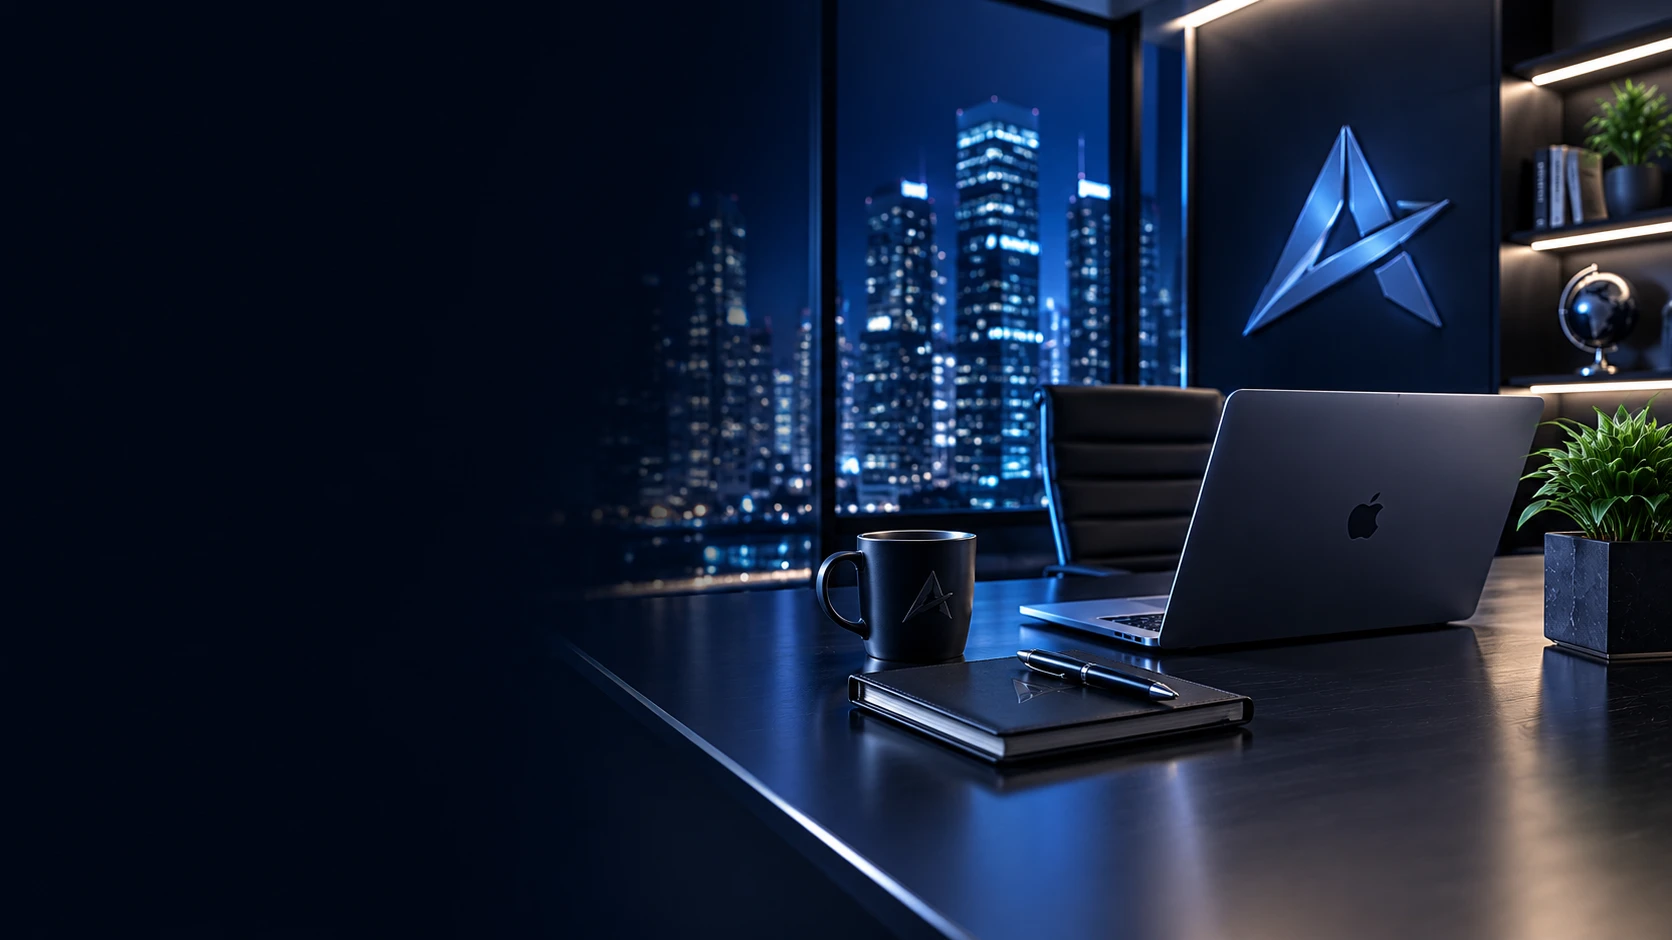
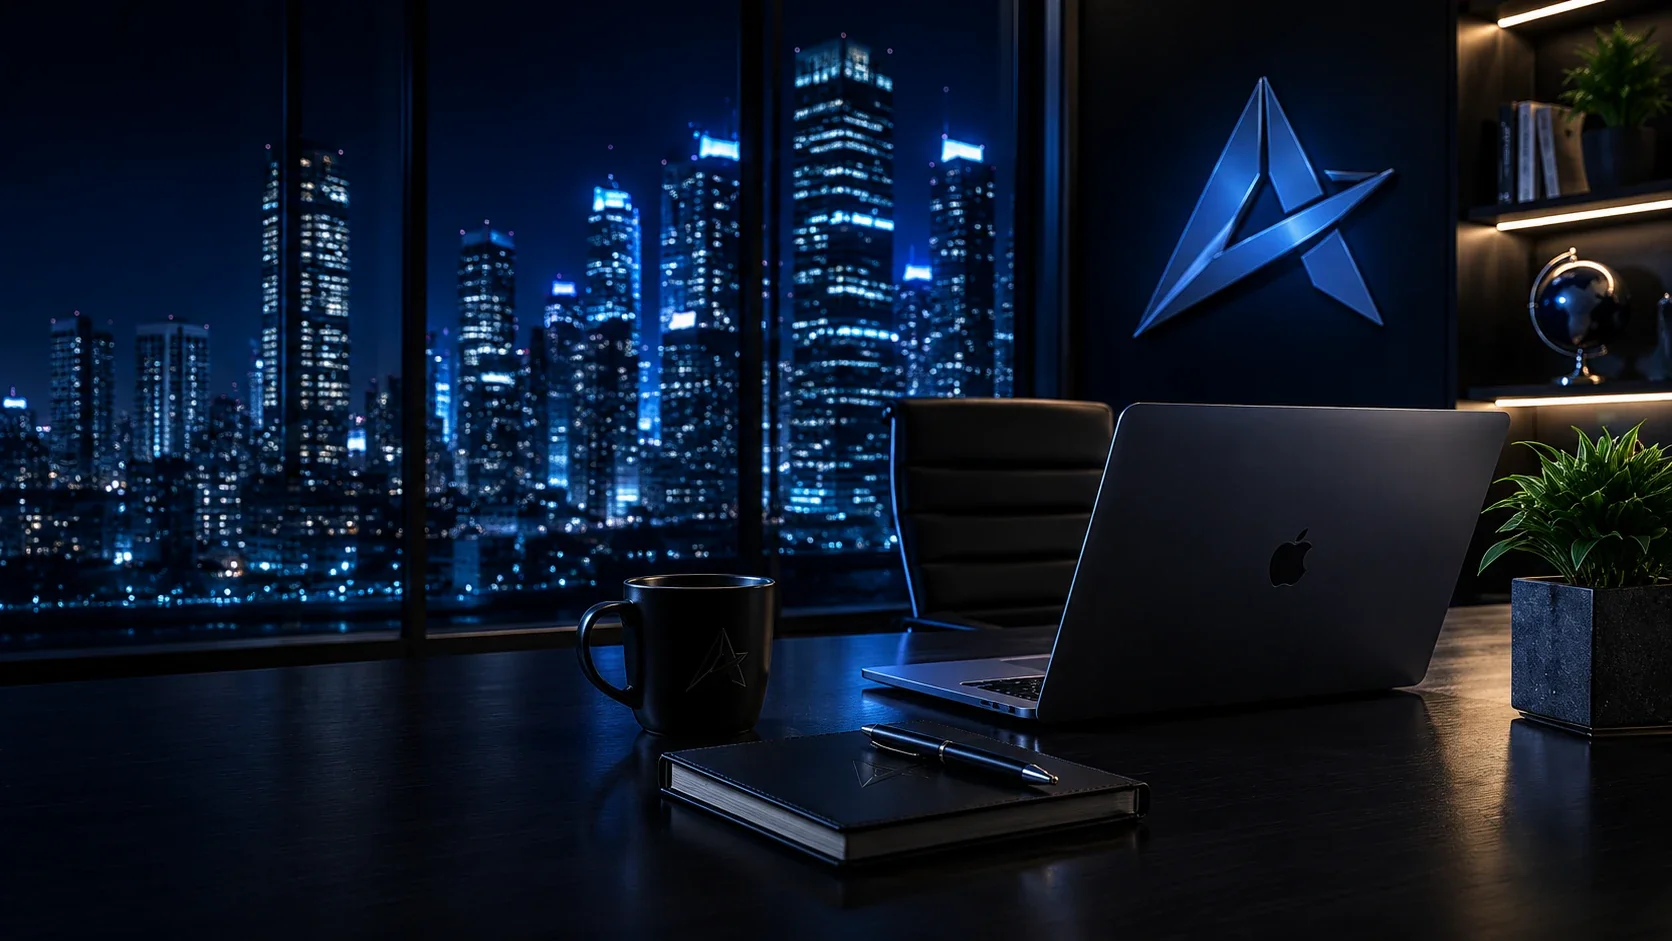
Contact page: update hero image to full-frame night office scene
Swaps in the latest approved hero photo, optimized from 197KB to
137KB (WebP q85, no visible degradation). Unlike prior hero photos,
this one has real content across its full width (city skyline plus
office desk), so no cropping is needed to avoid empty space at
desktop/tablet -- the whole image displays. On narrow phones the
existing right-biased object-position keeps the laptop, mug, notebook,
and AxisForce logo in frame. Same file path and CSS reused, so no old
asset or styles are left behind.

diff --git a/assets/js/app.js b/assets/js/app.js
@@ -2522,7 +2522,7 @@ function contactPage() {
   pageHero("Contact",
     "Tell us what is breaking.",
     "Thirty-minute call, no pitch deck. We will tell you what we would do first and roughly what it costs — even if that is nothing.",
-    heroMedia(300, slot("/assets/images/axisforce-contact-hero.webp", "Laptop, coffee mug, and notebook on a desk in a modern office with the AxisForce logo and city skyline view", "", "", "", "contact-hero-img"))) +
+    heroMedia(300, slot("/assets/images/axisforce-contact-hero.webp", "Laptop, coffee mug, and notebook on a desk in a modern office with the AxisForce logo and a city skyline at night", "", "", "", "contact-hero-img"))) +
   '<section style="background: #f2f5fa; color: #131a28; padding: 56px 32px 72px;">' +
     '<div class="contact-layout" style="max-width: 1280px; margin: 0 auto;">' +
       '<div class="contact-left">' +
